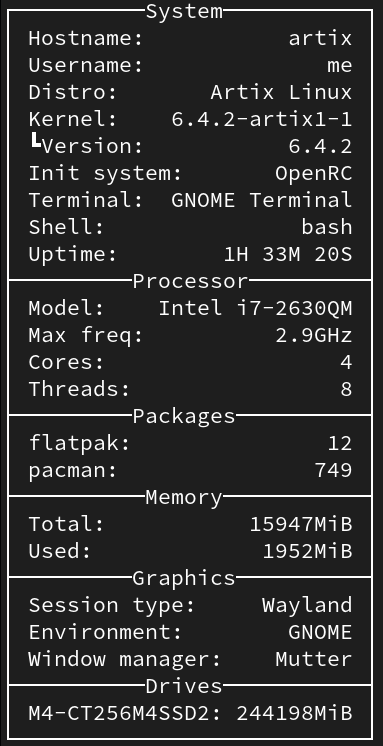
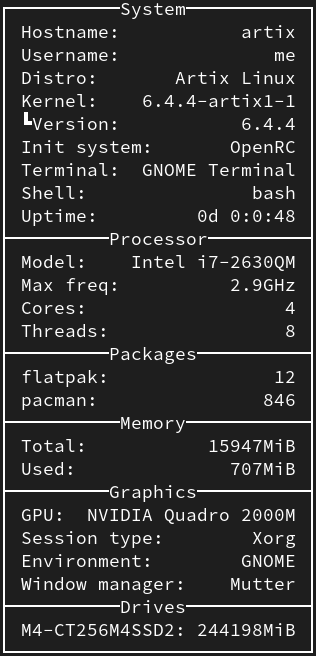
Add GPU detection

Changed region(s): [[0.0, 0.0, 0.9968, 1.0], [0.3703, 0.0, 0.5981, 0.0305]]

diff --git a/src/main.rs b/src/main.rs
@@ -38,7 +38,10 @@ fn get_info() -> BTreeMap<String, Vec<String>> {
         buf.push_str(
             format!(
                 "Uptime: {}d {}:{}:{}\0",
-                uptime.hours / 24, uptime.hours % 24, uptime.minutes, uptime.seconds
+                uptime.hours / 24,
+                uptime.hours % 24,
+                uptime.minutes,
+                uptime.seconds
             )
             .as_str(),
         );
@@ -110,6 +113,11 @@ fn get_info() -> BTreeMap<String, Vec<String>> {
     }
 
     // Graphics
+    let gpu = hardware::gpu::get_info();
+    if gpu.is_some() {
+        let gpu = gpu.unwrap();
+        write!(buf, "GPU: {gpu}\0");
+    }
     let session_type = software::graphics::get_session_type();
     if session_type.is_some() {
         let session_type = session_type.unwrap();
@@ -144,8 +152,9 @@ fn get_max_len(map: BTreeMap<String, Vec<String>>) -> usize {
 
     for key in map.keys() {
         for line in map.get(key).unwrap() {
-            if line.len() > result {
-                result = line.len();
+            let _len = line.replace("┗", "\0").replace("│", "\0").len();
+            if _len > result {
+                result = _len;
             }
         }
     }
@@ -153,8 +162,40 @@ fn get_max_len(map: BTreeMap<String, Vec<String>>) -> usize {
     result
 }
 
+fn format_info(map: BTreeMap<String, Vec<String>>) -> BTreeMap<String, Vec<String>> {
+    let mut result: BTreeMap<String, Vec<String>> = BTreeMap::new();
+
+    let max_len = get_max_len(map.clone());
+    for category in map.keys() {
+        let mut buf: Vec<String> = Vec::new();
+        map.get(category.as_str())
+            .unwrap()
+            .iter()
+            .for_each(|info_line| {
+                if !info_line.is_empty() {
+                    let mut line = info_line.split(": ");
+                    let line_param = line.next().unwrap();
+                    let param_len = line_param.replace("┗", "\0").len();
+                    let line_val = line.next().unwrap().trim().to_string();
+                    let val_len = line_val.len();
+                    buf.push(format!(
+                        "{}:{}{}",
+                        line_param,
+                        " ".repeat(max_len - param_len - val_len - 1),
+                        line_val
+                    ));
+                }
+            });
+        if !buf.is_empty() {
+            result.insert(category.to_string(), buf);
+        }
+    }
+
+    result
+}
+
 fn print_info() {
-    let info = get_info();
+    let info = format_info(get_info());
 
     let max_len = get_max_len(info.clone());
     for category in info.keys().rev() {
@@ -178,21 +219,7 @@ fn print_info() {
         info.get(category.as_str())
             .unwrap()
             .iter()
-            .for_each(|info_line| {
-                if !info_line.is_empty() {
-                    let mut line = info_line.split(": ");
-                    let line_param = line.next().unwrap();
-                    let param_len = line_param.replace("┗", "\0").len();
-                    let line_val = line.next().unwrap().trim().to_string();
-                    let val_len = line_val.len();
-                    println!(
-                        "│ {}:{}{} │",
-                        line_param,
-                        " ".repeat(max_len - param_len - val_len - 1),
-                        line_val
-                    );
-                }
-            });
+            .for_each(|line| println!("│ {} │", line))
     }
     println!("└{}┘", "─".repeat(max_len + 2))
 }

diff --git a/src/hardware/gpu.rs b/src/hardware/gpu.rs
@@ -1,0 +1,92 @@
+use std::fs;
+use std::path::Path;
+
+fn find_pci_ids() -> Option<String> {
+    let mut result = String::new();
+    for entry in fs::read_dir("/usr/share").unwrap() {
+        let path = entry
+            .unwrap()
+            .path()
+            .as_os_str()
+            .clone()
+            .to_str()
+            .unwrap()
+            .to_string();
+        if fs::metadata(path.clone()).unwrap().is_dir() {
+            fs::read_dir(path).unwrap().into_iter().for_each(|e| {
+                if e.as_ref().unwrap().file_name() == "pci.ids" {
+                    result = e.unwrap().path().to_str().unwrap().to_string();
+                }
+            })
+        }
+        if !result.is_empty() {
+            return Some(result);
+        }
+    }
+
+    None
+}
+
+pub fn get_info() -> Option<String> {
+    let mut result = String::new();
+
+    if Path::new("/sys/class/drm/card0/device/uevent").exists() {
+        let mut vendor = String::new();
+        let mut model = String::new();
+        for line in fs::read_to_string("/sys/class/drm/card0/device/uevent")
+            .unwrap()
+            .split("\n")
+            .into_iter()
+        {
+            if line.starts_with("PCI_ID") {
+                let pci_id = line.split("PCI_ID=").nth(1).unwrap().to_string();
+                vendor = String::from(match pci_id.split(':').next().unwrap() {
+                    "10DE" => "NVIDIA",
+                    "1002" => "AMD",
+                    _ => "Unknown",
+                });
+                model = pci_id
+                    .split(':')
+                    .nth(1)
+                    .unwrap()
+                    .to_string()
+                    .to_ascii_lowercase();
+            }
+        }
+        if !model.is_empty() {
+            let pci_ids = find_pci_ids();
+            if pci_ids.is_some() {
+                let pci_ids = pci_ids.unwrap();
+
+                for line in fs::read_to_string(pci_ids).unwrap().split('\n') {
+                    if line.contains(format!("{}", model).as_str())
+                        && line.contains('[')
+                        && line.contains(']')
+                    {
+                        model = line.replace(model.as_str(), "").trim().to_string();
+                        model = model
+                            .split('[')
+                            .nth(1)
+                            .unwrap()
+                            .to_string()
+                            .split(']')
+                            .next()
+                            .unwrap()
+                            .to_string();
+                        break;
+                    }
+                }
+            }
+
+            result = if !vendor.is_empty() {
+                format!("{} ", vendor)
+            } else {
+                "".to_string()
+            } + model.as_str();
+        }
+
+        return Some(result);
+    }
+
+    None
+}

diff --git a/src/hardware.rs b/src/hardware.rs
@@ -1,3 +1,4 @@
 pub mod cpu;
 pub mod drive;
+pub mod gpu;
 pub mod ram;
